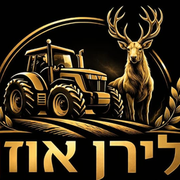
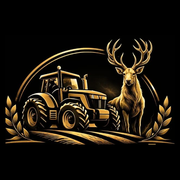
Improve how the site appears in Google search results
- Favicon that meets Google's rules (square, multiple of 48px): the
  logo's emblem without text, as favicon.ico (16/32/48) and 96/192 PNGs.
  The old 64px PNG was ignored by Google.
- WebSite structured data names the site 'לירן אוזן – טרקטורים ומעמיסים
  חקלאיים' so Google shows that name; the AutoDealer data gains a logo,
  image and description.
- 1200x630 share image (the full logo on black) for og:image, plus
  og:site_name, og:url, a large-image Twitter card and
  max-image-preview:large so Google may show a large thumbnail.
- Titles and descriptions written for search: the home page leads with
  the business name, catalog and vehicle pages say 'למכירה', and the
  categories and about pages get their own descriptions.

Claude-Session: https://claude.ai/code/session_01Dhzj562QtSgFqe8vYuiGqe

diff --git a/views/layout.js b/views/layout.js
@@ -101,31 +101,51 @@ function floatingActions() {
   </div>`;
 }
 
-function localBusinessJsonLd() {
-  return {
-    '@context': 'https://schema.org',
-    '@type': 'AutoDealer',
-    name: business.fullName,
-    telephone: business.phoneTel,
-    address: {
-      '@type': 'PostalAddress',
-      addressLocality: 'עולש',
-      addressRegion: 'השרון',
-      addressCountry: 'IL',
+// Absolute URL on the live domain (falls back to a path when SITE_URL is unset).
+function abs(p) {
+  return business.siteUrl && p && p.startsWith('/') ? business.siteUrl + p : p;
+}
+
+// Structured data Google reads for the site name, logo and business card.
+function siteJsonLd() {
+  const base = business.siteUrl || undefined;
+  return [
+    {
+      '@context': 'https://schema.org',
+      '@type': 'WebSite',
+      name: business.fullName,
+      alternateName: [business.name, 'לירן אוזן טרקטורים', 'Lirantrac'],
+      url: base ? `${base}/` : undefined,
+      inLanguage: 'he-IL',
     },
-    image: business.siteUrl ? `${business.siteUrl}/img/logo-full.webp` : undefined,
-    url: business.siteUrl || undefined,
-  };
+    {
+      '@context': 'https://schema.org',
+      '@type': 'AutoDealer',
+      name: business.fullName,
+      description: 'קנייה, מכירה וטרייד אין של טרקטורים חקלאיים, מיני מעמיסים, שופלים וציוד מכני. אולם תצוגה במושב עולש שבשרון.',
+      telephone: business.phoneTel,
+      url: base ? `${base}/` : undefined,
+      logo: abs('/img/icon-192.png'),
+      image: abs('/img/og-image.jpg'),
+      address: {
+        '@type': 'PostalAddress',
+        addressLocality: 'עולש',
+        addressRegion: 'השרון',
+        addressCountry: 'IL',
+      },
+      areaServed: 'IL',
+    },
+  ];
 }
 
 function page({ title, description, active, body, jsonLd, image, canonical, bodyClass = '' }) {
-  const fullTitle = title ? `${title} | ${business.fullName}` : business.fullName;
+  // Home: the business name first, then what it does. Other pages: the page, then the business.
+  const fullTitle = title ? `${title} | ${business.fullName}` : `${business.fullName} | קנייה, מכירה וטרייד אין`;
   const desc =
     description ||
-    'קנייה, מכירה וטרייד אין של טרקטורים חקלאיים, מיני מעמיסים, בובקטים, שופלים וציוד מכני כבד. מושב עולש, השרון. 052-6003333';
-  const ld = [localBusinessJsonLd(), ...(jsonLd ? [jsonLd] : [])];
-  const ogImage = image || '/img/logo-full.webp';
-  const abs = (p) => (business.siteUrl && p.startsWith('/') ? business.siteUrl + p : p);
+    'טרקטורים חקלאיים, מיני מעמיסים, שופלים וציוד מכני למכירה. אולם תצוגה במושב עולש שבשרון: רואים את הכלי, יוצאים לנסיעת מבחן וסוגרים עסקה. קנייה, מכירה וטרייד אין. 052-6003333';
+  const ld = [...siteJsonLd(), ...(jsonLd ? [jsonLd] : [])];
+  const ogImage = image || '/img/og-image.jpg';
   return html`<!doctype html>
 <html lang="he" dir="rtl">
 <head>
@@ -135,12 +155,18 @@ function page({ title, description, active, body, jsonLd, image, canonical, body
   <meta name="description" content="${desc}">
   <meta name="theme-color" content="#000000">
   ${canonical && business.siteUrl ? html`<link rel="canonical" href="${business.siteUrl + canonical}">` : ''}
+  <meta name="robots" content="index, follow, max-image-preview:large">
   <meta property="og:type" content="website">
   <meta property="og:locale" content="he_IL">
+  <meta property="og:site_name" content="${business.fullName}">
   <meta property="og:title" content="${fullTitle}">
   <meta property="og:description" content="${desc}">
   <meta property="og:image" content="${abs(ogImage)}">
-  <link rel="icon" href="/img/favicon.png" type="image/png">
+  ${canonical && business.siteUrl ? html`<meta property="og:url" content="${business.siteUrl + canonical}">` : ''}
+  <meta name="twitter:card" content="summary_large_image">
+  <link rel="icon" href="/favicon.ico" sizes="48x48">
+  <link rel="icon" href="/img/icon-96.png" type="image/png" sizes="96x96">
+  <link rel="icon" href="/img/icon-192.png" type="image/png" sizes="192x192">
   <link rel="apple-touch-icon" href="/img/apple-touch-icon.png">
   <link rel="preload" href="/fonts/karantina-hebrew-700-normal.woff2" as="font" type="font/woff2" crossorigin>
   <link rel="preload" href="/fonts/ibm-plex-sans-hebrew-hebrew-400-normal.woff2" as="font" type="font/woff2" crossorigin>

diff --git a/views/pages.js b/views/pages.js
@@ -175,7 +175,7 @@ function about({ settings }) {
     </div>
   </section>
   ${contactBand()}`;
-  return page({ title: 'אודות', active: 'about', body, canonical: '/about' });
+  return page({ title: 'אודות', active: 'about', body, canonical: '/about', description: 'לירן אוזן קונה, מוכר ומחליף טרקטורים ומעמיסים חקלאיים מאולם התצוגה במושב עולש שבשרון. נסיעת מבחן במקום, טרייד אין ותשלומים.' });
 }
 
 // ------------------------------------------------------------------ categories
@@ -199,7 +199,7 @@ function categoriesPage({ counts, covers }) {
       </ul>
     </div>
   </section>`;
-  return page({ title: 'קטגוריות', active: 'categories', body, canonical: '/categories' });
+  return page({ title: 'קטגוריות: טרקטורים, מעמיסים וציוד מכני', active: 'categories', body, canonical: '/categories', description: 'טרקטורים חקלאיים, מיני מעמיסים, בובקטים, שופלים, מלגזות, נגררים, טרקטורונים וציוד מכני כבד למכירה אצל לירן אוזן, מושב עולש. 052-6003333' });
 }
 
 // ------------------------------------------------------------------ catalog
@@ -312,7 +312,7 @@ function catalog({ results, filters, options, total }) {
     </div>
   </section>`;
   return page({
-    title,
+    title: cat ? `${title} למכירה` : 'מלאי כלים: טרקטורים ומעמיסים למכירה',
     active: 'catalog',
     body,
     canonical: cat ? `/catalog?category=${cat.slug}` : '/catalog',
@@ -464,7 +464,7 @@ function vehicle({ v, related }) {
   <script type="application/json" data-gallery-data>${raw(JSON.stringify(images.map((i) => ({ lg: i.lg, alt: title }))).replace(/</g, '\\u003c'))}</script>`;
 
   return page({
-    title,
+    title: sold ? `${title} (נמכר)` : `${title} למכירה`,
     active: 'catalog',
     body,
     jsonLd,

diff --git a/views/admin.js b/views/admin.js
@@ -23,7 +23,7 @@ function layout({ title, active, body, csrf, flash, newLeads = 0 }) {
   <meta name="viewport" content="width=device-width, initial-scale=1">
   <meta name="robots" content="noindex, nofollow">
   <title>${title} | ניהול האתר</title>
-  <link rel="icon" href="/img/favicon.png" type="image/png">
+  <link rel="icon" href="/favicon.ico" sizes="48x48">
   <link rel="stylesheet" href="/css/site.css">
   <link rel="stylesheet" href="/css/admin.css">
 </head>
